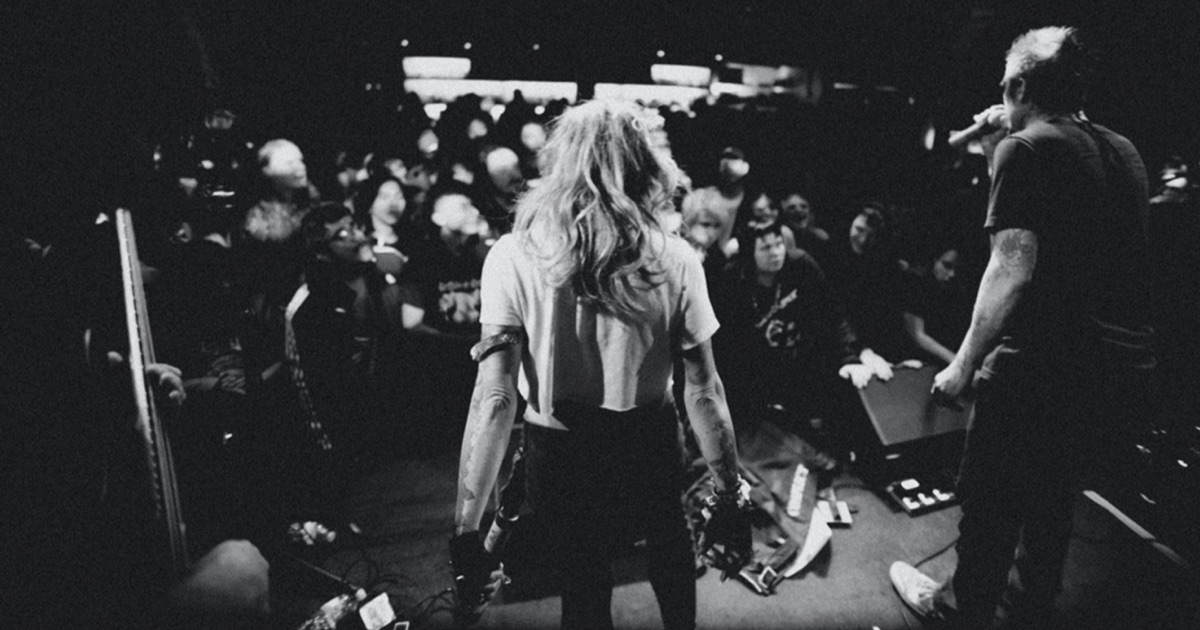
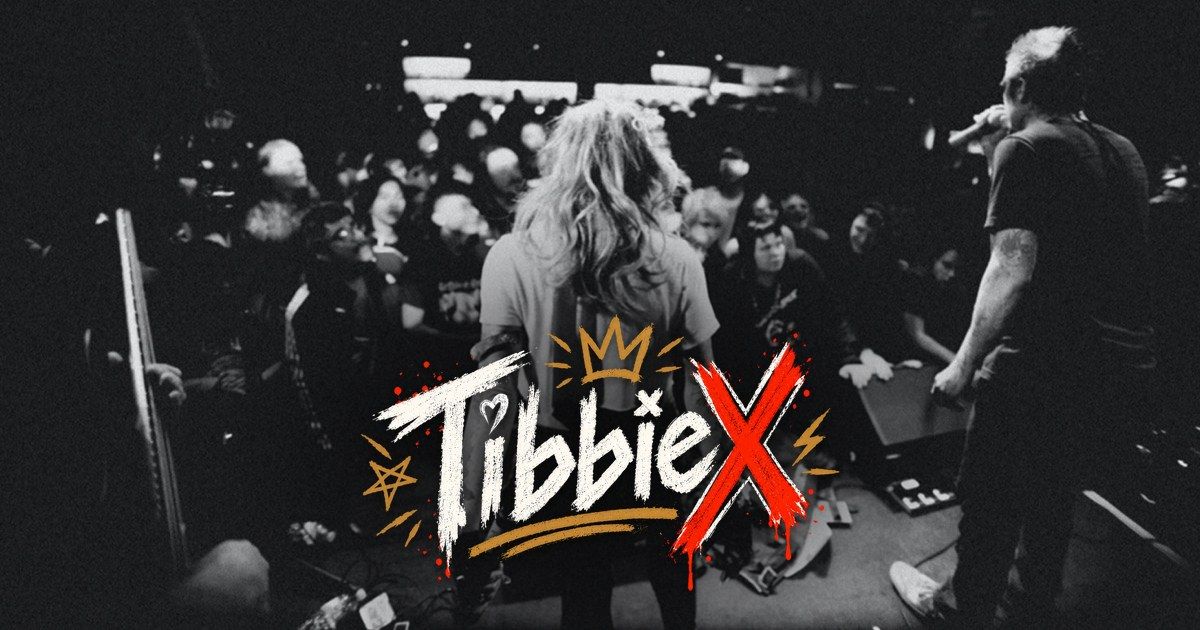
Put the painted tag on the share card
The tag sits bottom-centre on og.jpg, inside the square crop some apps use, over a soft dark pool with the same drop shadow as on the page. The og:image and twitter:image URLs carry ?v=2 so scrapers fetch the new card, and the alt text now mentions the tag.

diff --git a/index.html b/index.html
@@ -42,12 +42,12 @@
       property="og:description"
       content="Art prints, apparel, patches and pins made in-house by Tibbie X — bass and vocals for Leftover Crack and Reagan Youth. Music and tarot readings."
     />
-    <meta property="og:image" content="https://tibbiex.studio/og.jpg" />
+    <meta property="og:image" content="https://tibbiex.studio/og.jpg?v=2" />
     <meta property="og:image:width" content="1200" />
     <meta property="og:image:height" content="630" />
     <meta
       property="og:image:alt"
-      content="Tibbie X on stage, facing a packed crowd, in black and white."
+      content="Tibbie X on stage, facing a packed crowd, in black and white, with her hand-painted Tibbie X tag across the foreground."
     />
     <meta name="twitter:card" content="summary_large_image" />
     <meta
@@ -58,10 +58,10 @@
       name="twitter:description"
       content="Art prints, apparel, patches and pins made in-house by Tibbie X — bass and vocals for Leftover Crack and Reagan Youth. Music and tarot readings."
     />
-    <meta name="twitter:image" content="https://tibbiex.studio/og.jpg" />
+    <meta name="twitter:image" content="https://tibbiex.studio/og.jpg?v=2" />
     <meta
       name="twitter:image:alt"
-      content="Tibbie X on stage, facing a packed crowd, in black and white."
+      content="Tibbie X on stage, facing a packed crowd, in black and white, with her hand-painted Tibbie X tag across the foreground."
     />
 
     <!-- Structured data. Two entities, deliberately: the studio is what sells,
